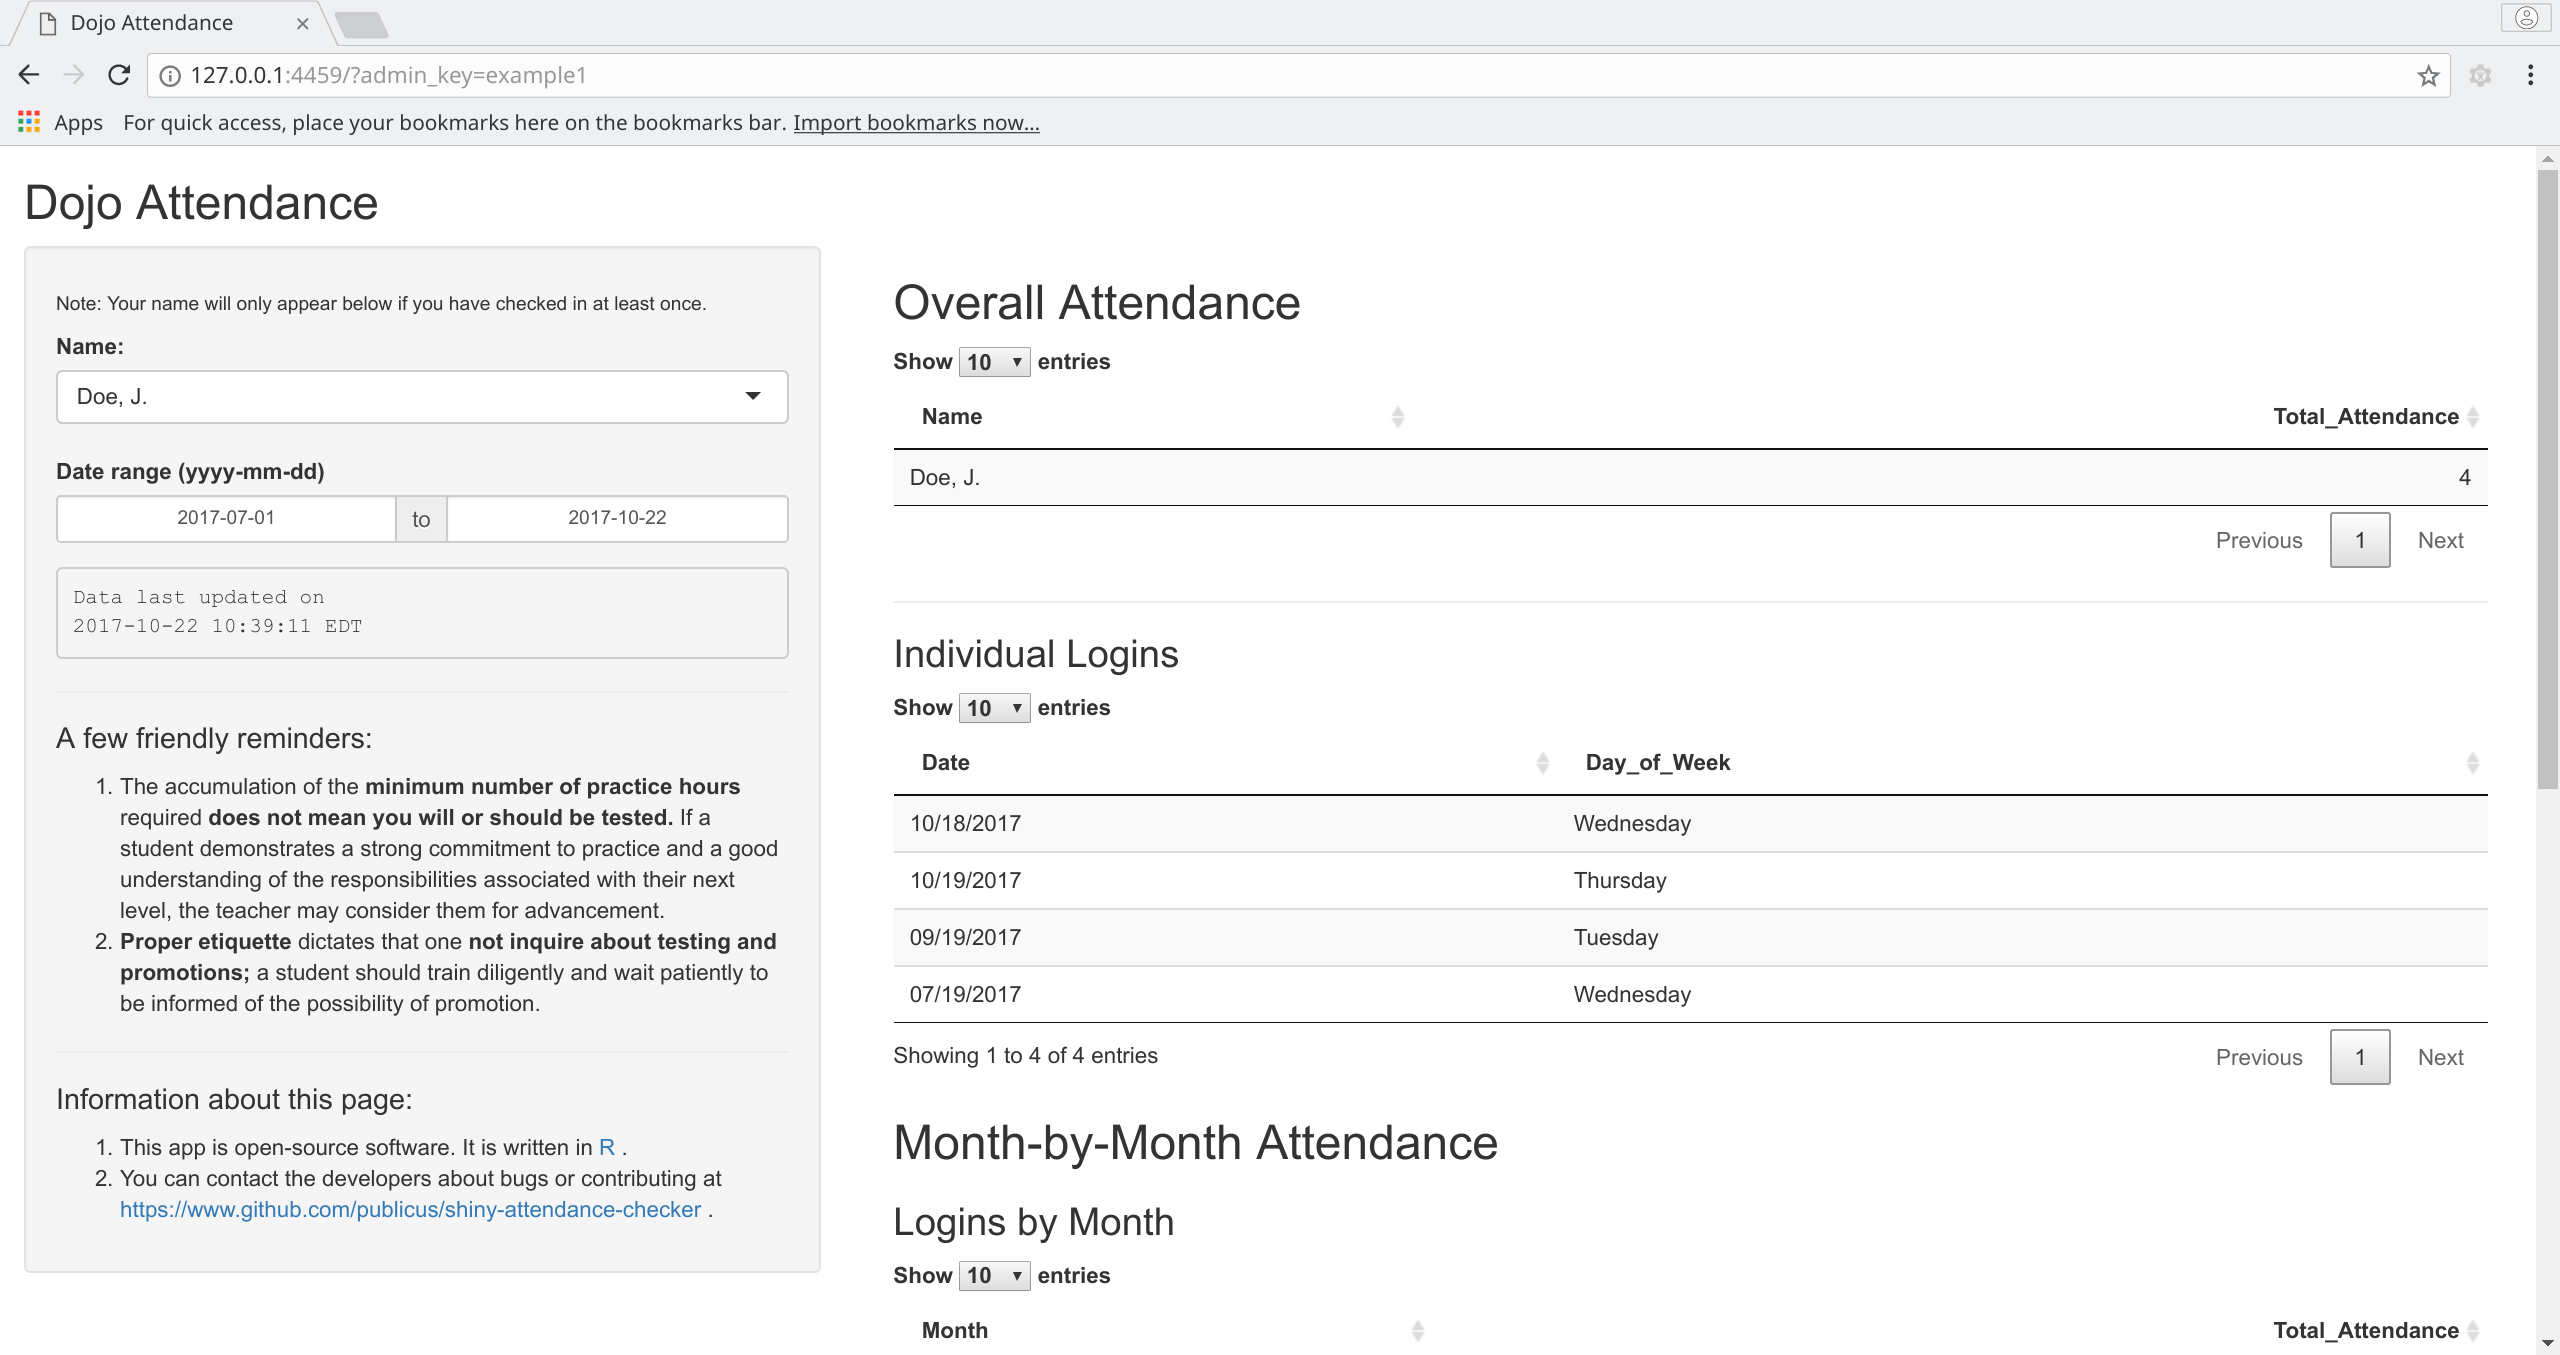
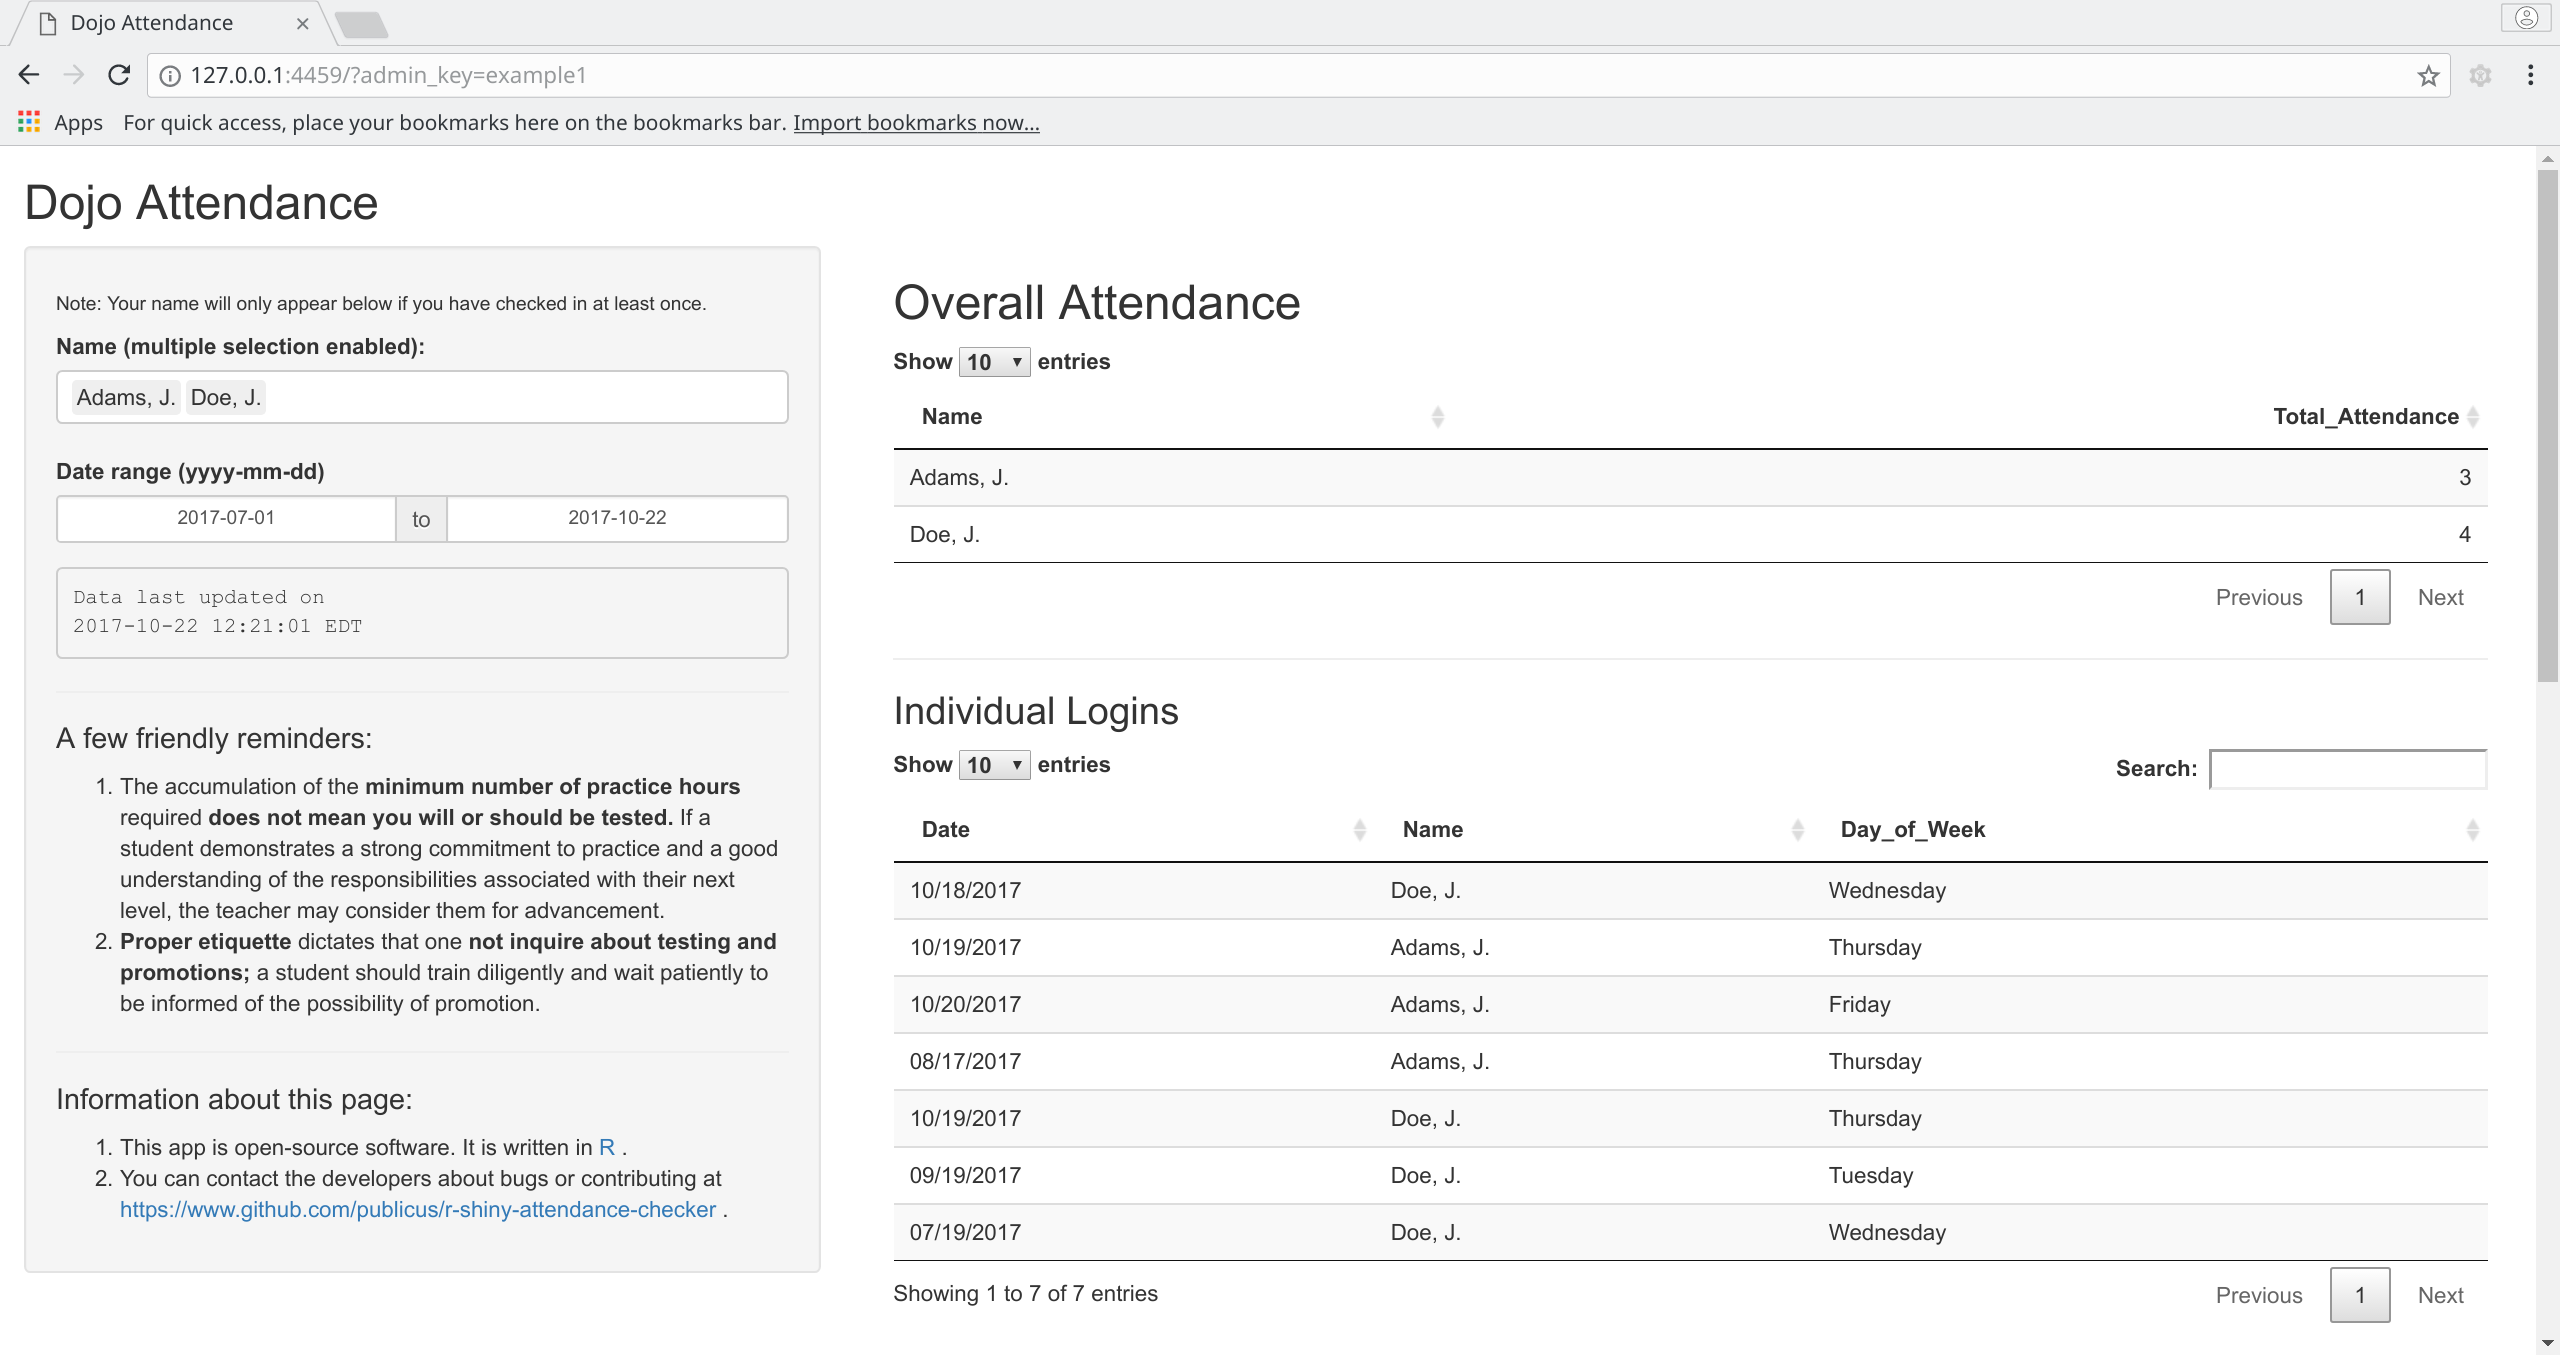
Added admin mode example screenshots.

diff --git a/README.md b/README.md
@@ -10,6 +10,8 @@ By default, it allows the user to look up one name at a time. An "administrator 
 
 ![Example screenshot 2](example_screenshots/screenshot2.png)
 
+![Example screenshot 2](example_screenshots/screenshot3.png)
+
 ### Pros and cons of using this app
 
 #### Pros
